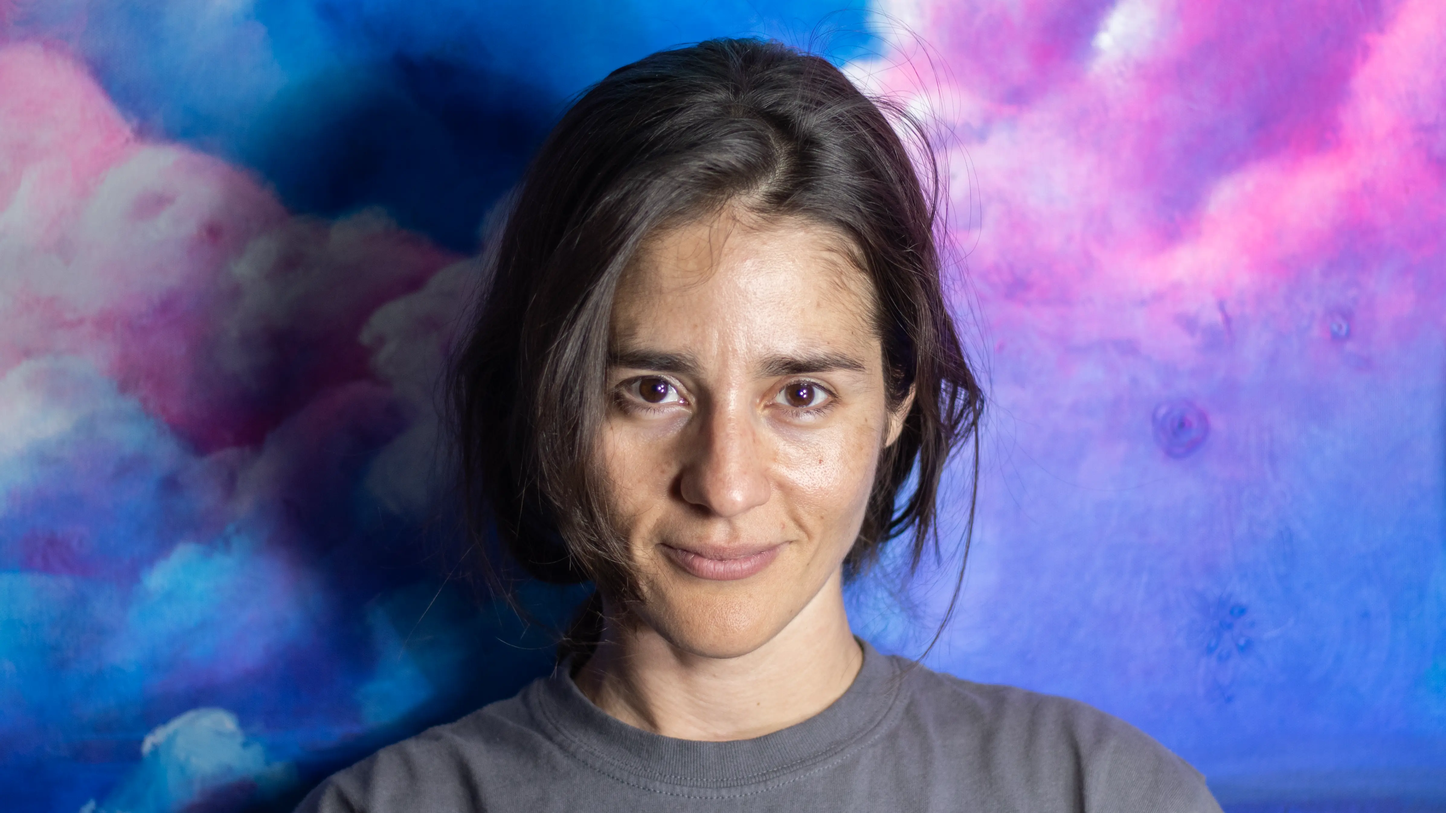
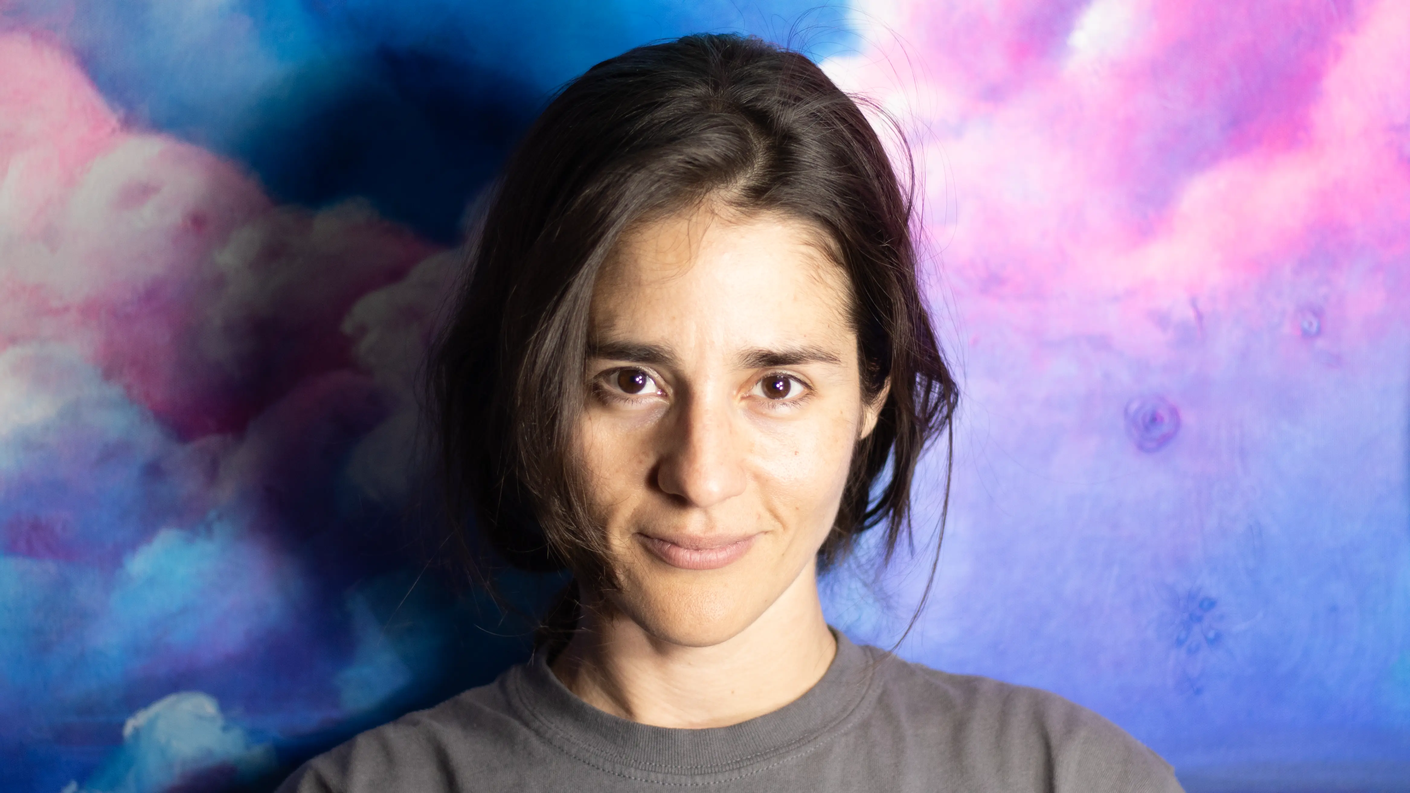
Update website

diff --git a/index.html b/index.html
@@ -53,11 +53,6 @@
                 class="carousel-img"
                 loading="lazy">
             <img
-                src="images/covers/after-the-rain-detail.webp"
-                alt="After the Rain Detail"
-                class="carousel-img"
-                loading="lazy">
-            <img
                 src="images/covers/the-fish-and-the-sphere-detail.webp"
                 alt="The Fish and the Sphere Detail"
                 class="carousel-img"
@@ -72,10 +67,10 @@
                 alt="The Tiger Detail"
                 class="carousel-img"
                 loading="lazy">
-                <figcaption class="car-cover-caption max-width">
-                    <span class="footnote">Welcome to the official website of visual artist</span> 
+                <figcaption class="car-cover-caption">
+                    <span>Welcome to the official website of visual artist</span> 
                     <br>
-                    <span class="nowrap">Ketty Rodriguez Quevedo</span>
+                    <span class="nowrap" style="font-size: var(--large-text);">Ketty Rodriguez Quevedo</span>
                 </figcaption>
         </figure>
         <br>

diff --git a/css/style.css b/css/style.css
@@ -242,7 +242,7 @@ footer a {
     width: 100%;
     margin: 0rem auto;
     display: grid;  
-    grid-template-columns: repeat(2, minmax(150px, 1fr));
+    grid-template-columns: repeat(1, minmax(150px, 1fr));
     gap: var(--gap);
 }
 
@@ -268,9 +268,9 @@ footer a {
 
 .car-cover-img figcaption{
     width: 100%;
-    background-image: linear-gradient(90deg, rgba(255, 255, 255, 0) 0%, var(--color-background) 10%, var(--color-background) 90%, rgba(255, 255, 255, 0) 100%);
+    backdrop-filter: var(--blur);
     line-height: var(--line-height-large);
-    color: var(--color-primary);
+    color: var(--color-background);
     text-align: center;
     position: absolute;
     bottom: 50%;
@@ -520,6 +520,7 @@ footer a {
 /* BREAKPOINTS */
 /* SM -> Small */
 @media (min-width: 640px) { 
+    
     
 }
 

diff --git a/pages/about.html b/pages/about.html
@@ -8,7 +8,6 @@
     <link rel="stylesheet" href="../css/style.css">
     <script src="../js/main.js" defer></script>
 </head>
-
 <body>
     <header>
         <div class="max-width">
